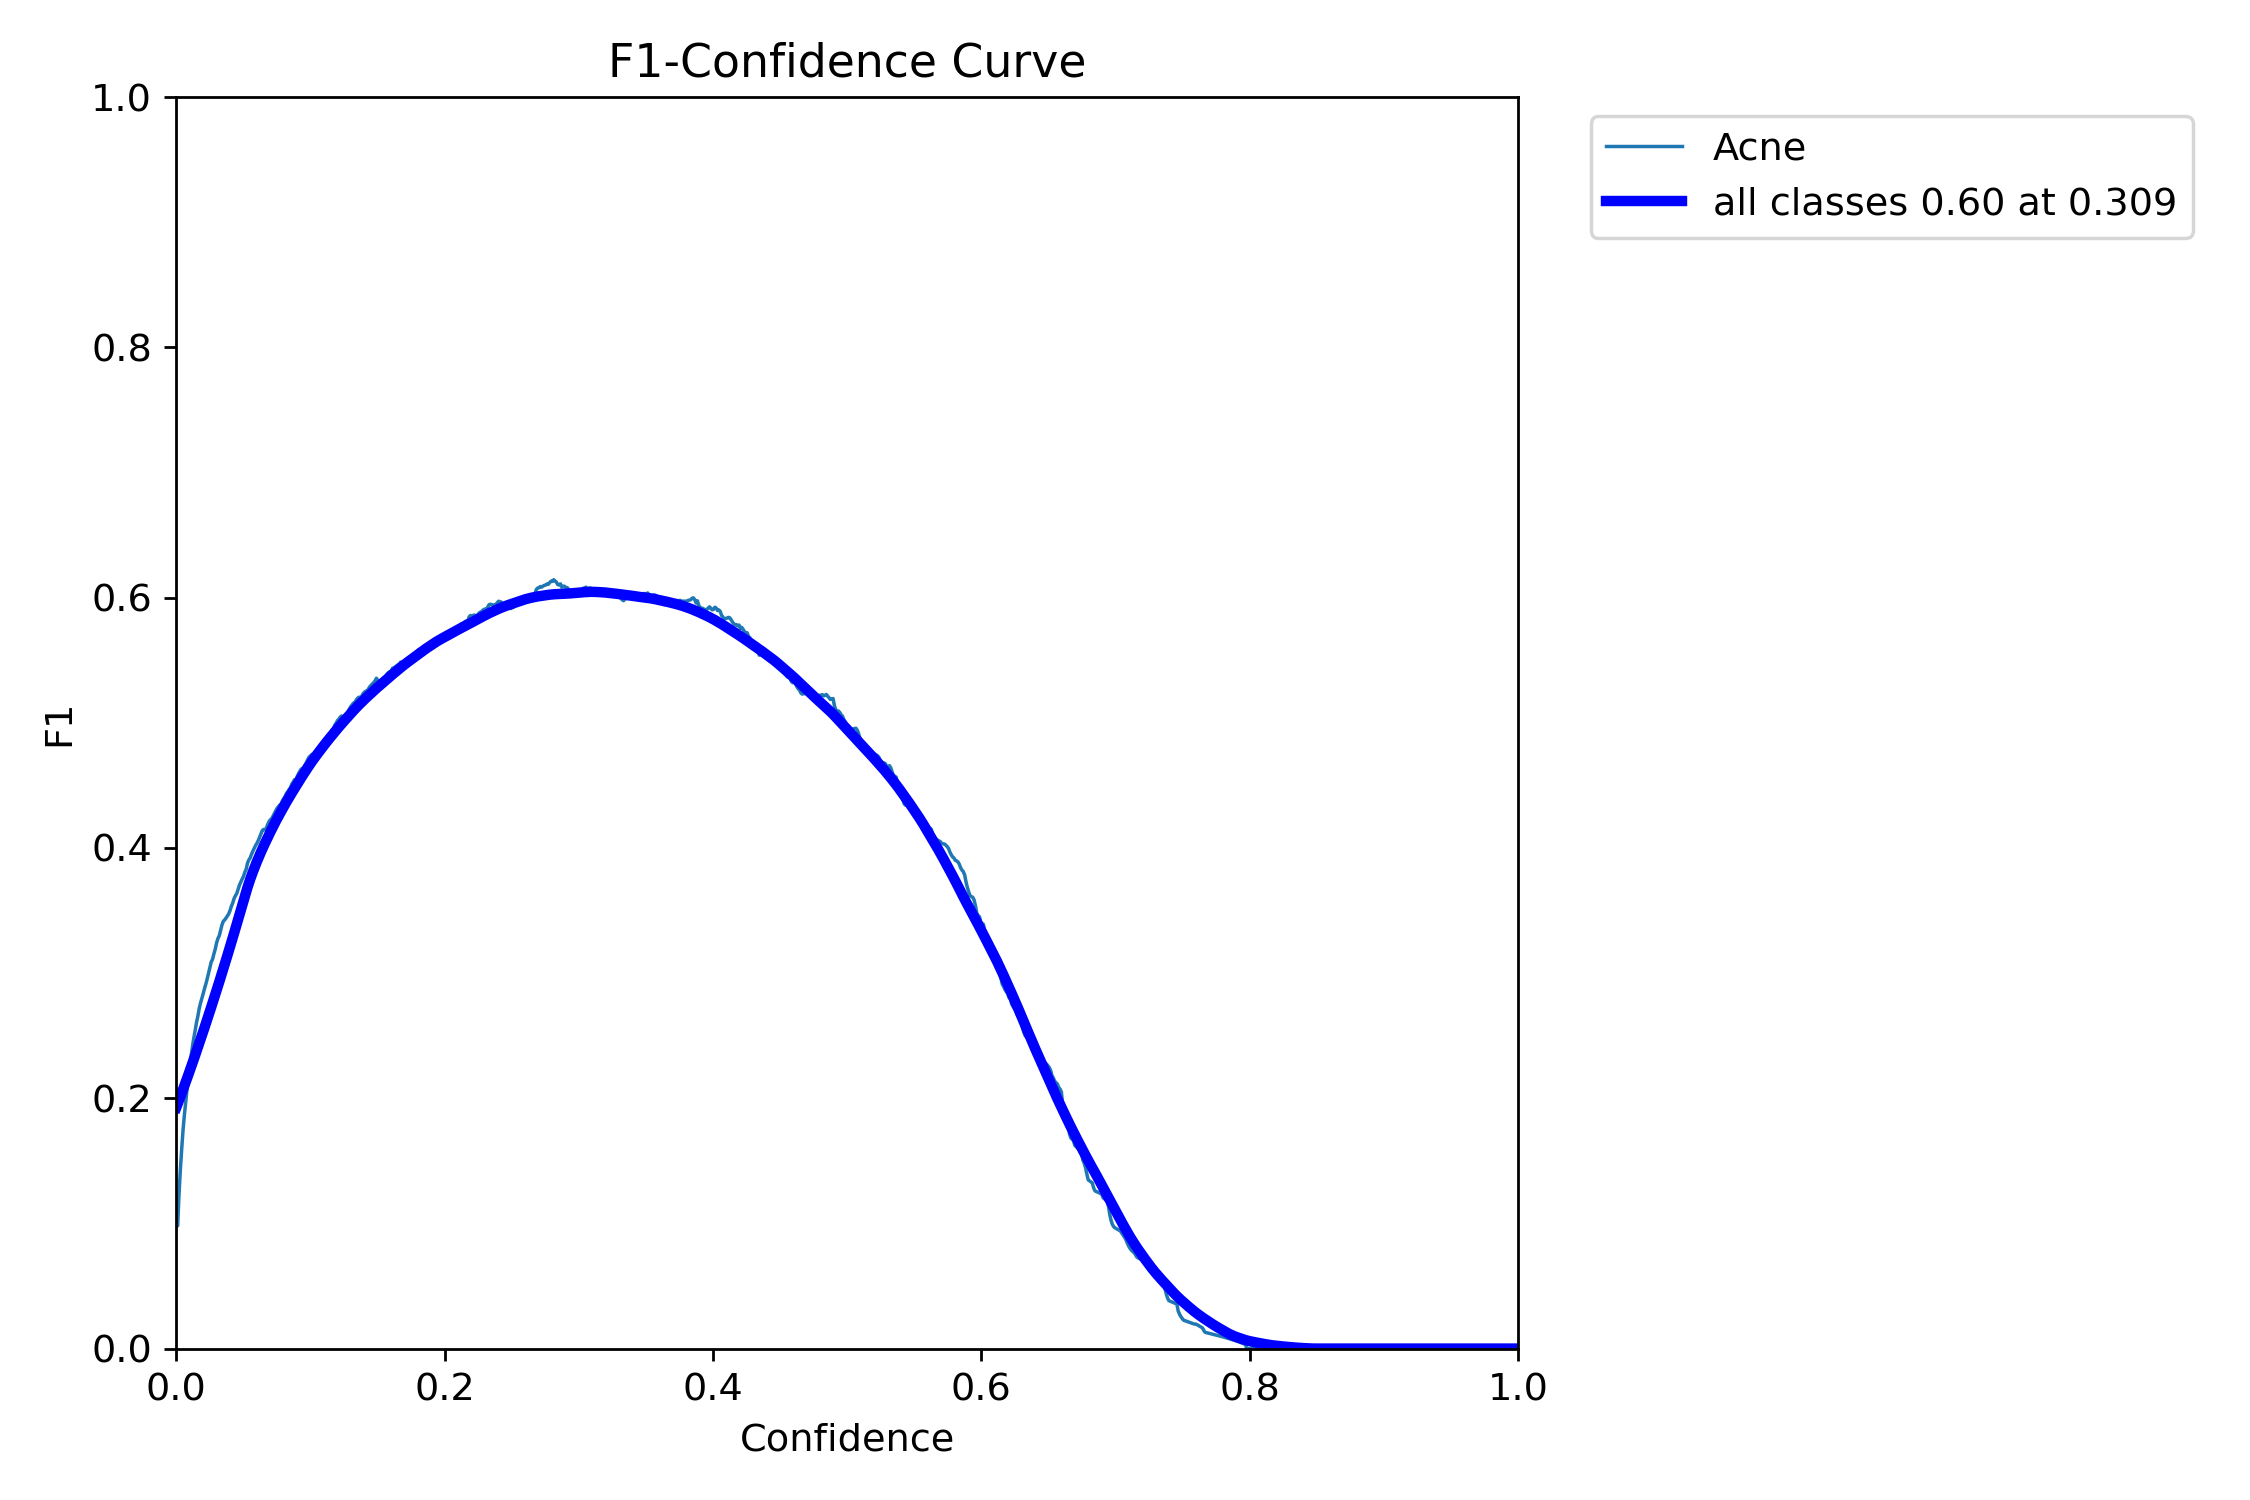
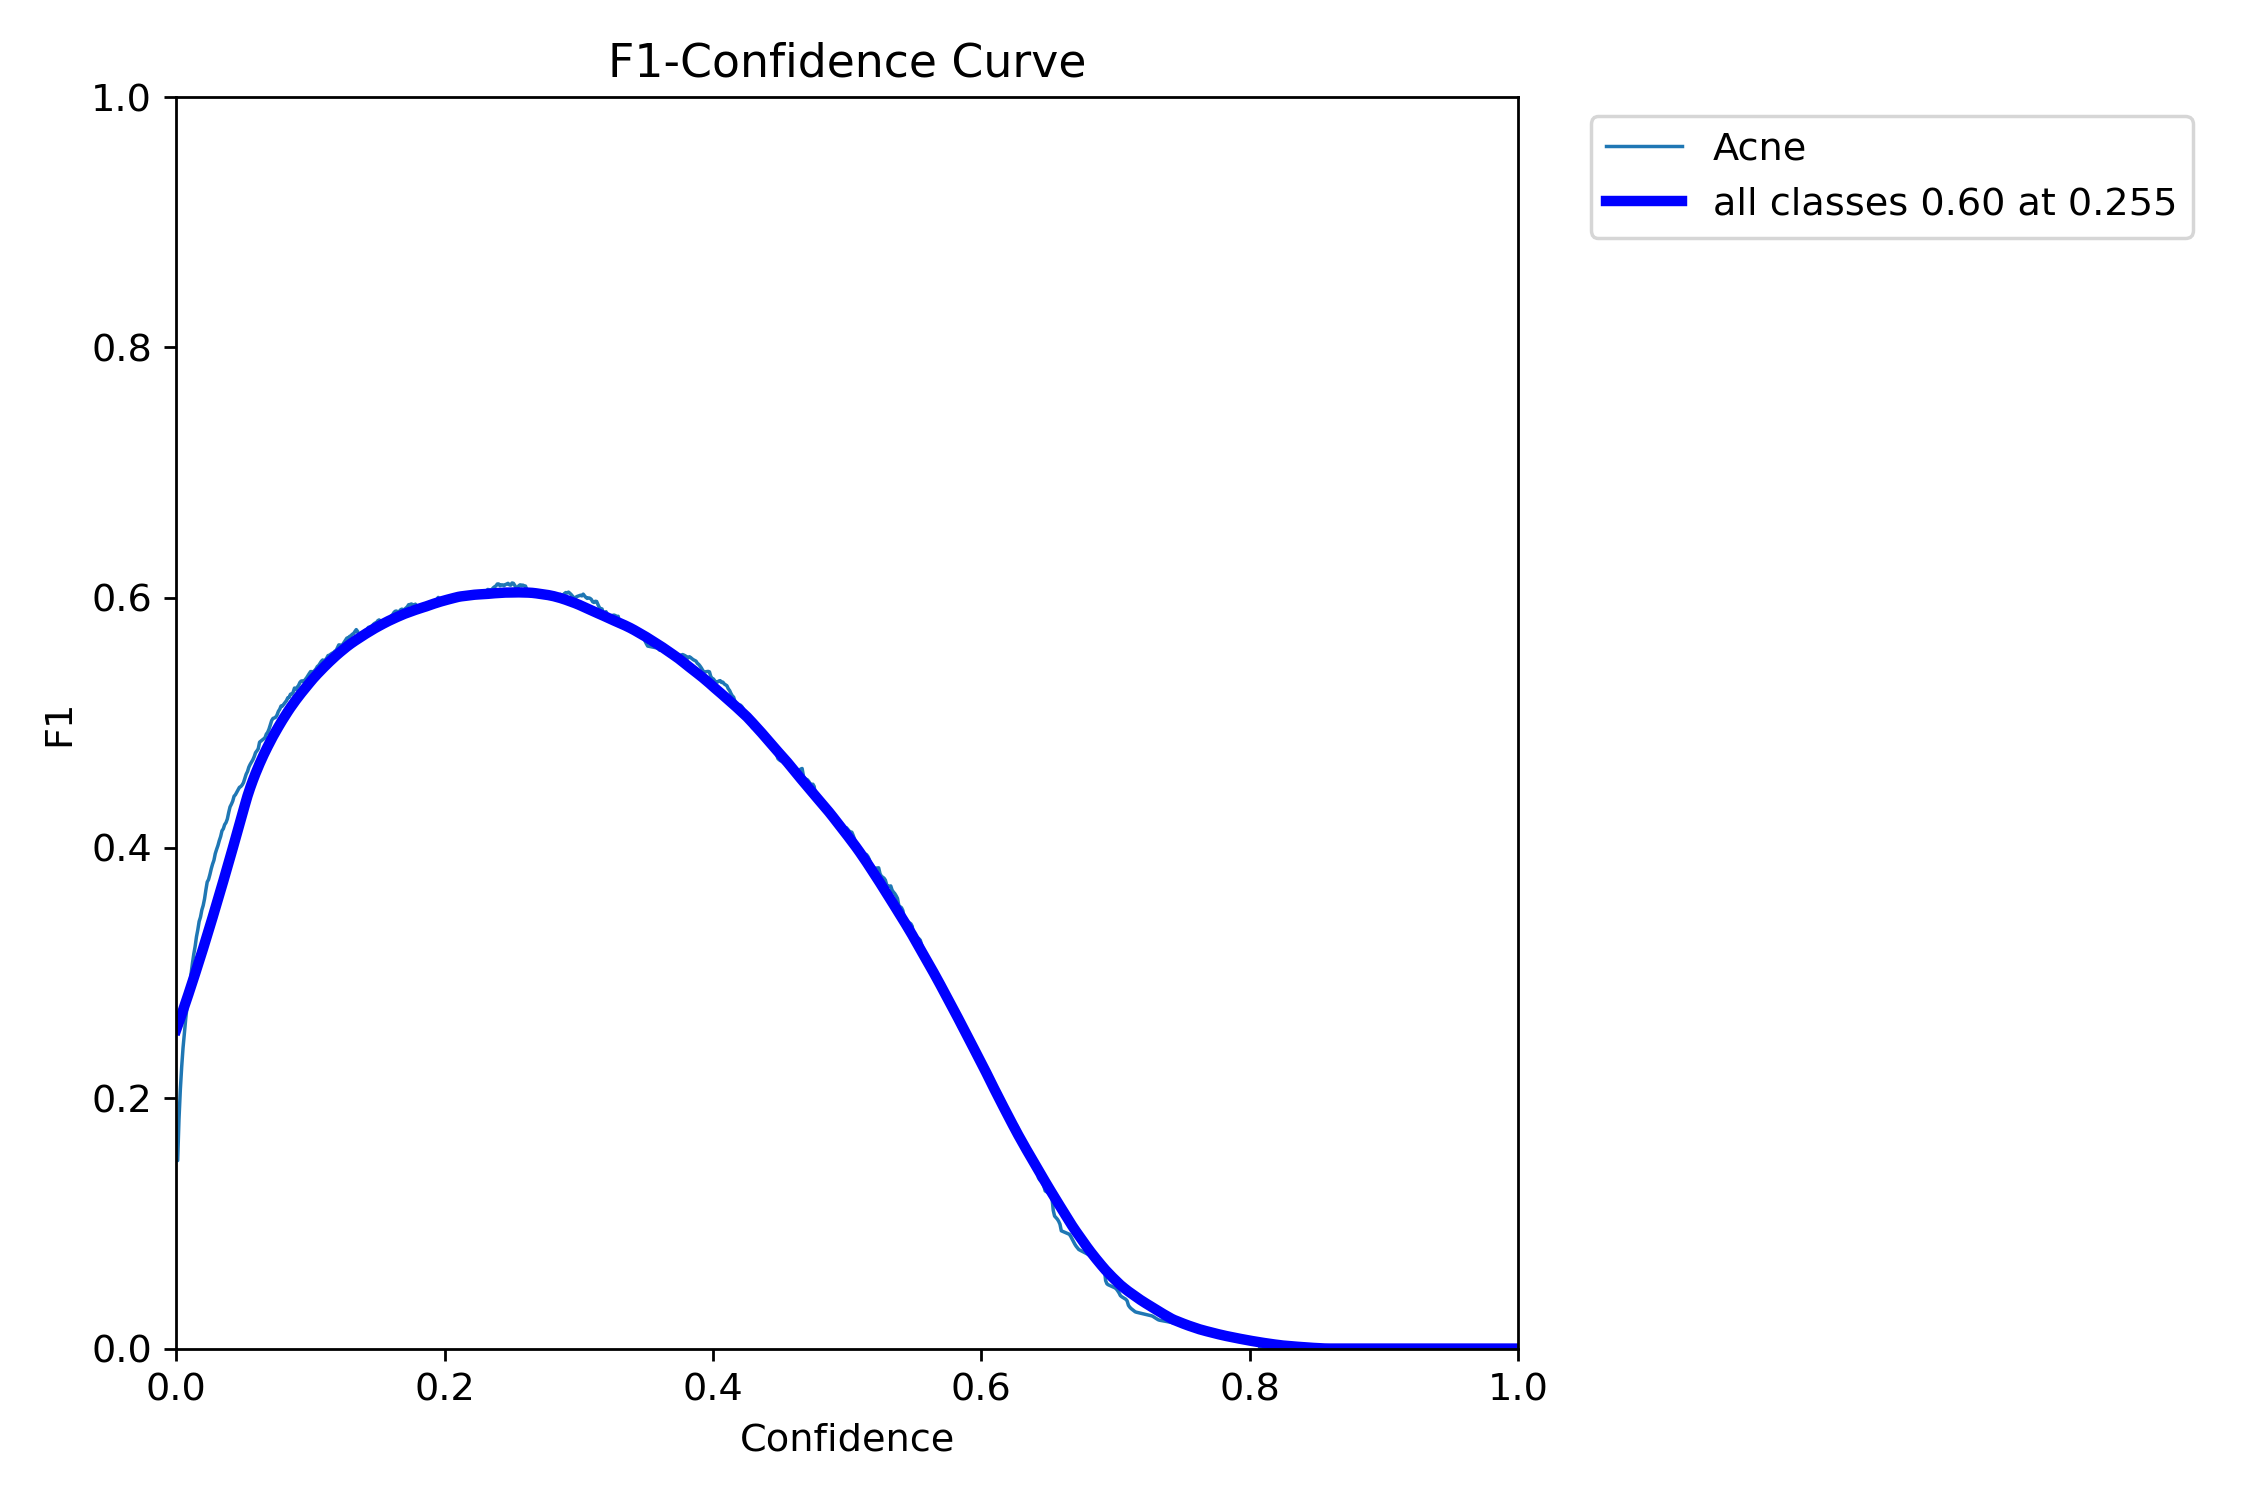
yolov8n optimized run

Changed region(s): [[0.0622, 0.368, 0.56, 0.8893], [0.9333, 0.1227, 0.9644, 0.1533]]

diff --git a/scripts/train.py b/scripts/train.py
@@ -2,26 +2,30 @@ from ultralytics import YOLO
 import argparse
 
 
-def train_model(model_name, batch_size, epochs, patience):
+def train_model(model_name, epochs, patience, dataset):
     model_weight = f"{model_name}.pt"
     # load yolo model
     model = YOLO(model_weight)
 
-    print("Starting fine-tuning for acne detection...")
-
     # start training
     results = model.train(
-        data="acne-dataset/data.yaml",  # Seu arquivo de configuração criado acima
+        data=f"{dataset}/data.yaml",
         epochs=epochs,
-        imgsz=640,  # default image size for yolo
-        batch=batch_size,  # if low memory use a smaller batch size
+        imgsz=1280,  # higher resolution to preserve small acne lesions
+        batch=2,  # small fixed batch to avoid system RAM OOM
         patience=patience,  # stop training if no evolution after 'patience' epochs
         device=0,  # use gpu 0. use 'cpu' if no gpu
         project="Acne_Detection",
         name=model_name,  # folder where the weights are going to be saved
+        cos_lr=True,  # cosine LR decay for smoother convergence
+        scale=0.9,  # aggressive scale augmentation for variable-resolution images
+        translate=0.2,  # slightly more spatial variation
+        mosaic=1.0,  # keeps mosaic (good for small objects)
+        erasing=0.4,  # random erasing for regularization
+        workers=2,  # keep low to manage RAM usage
     )
 
-    print("Training finished. Best weights are saved on Acne_Detection/{model_name}/weights/best.pt")
+    print(f"Training finished. Best weights saved at Acne_Detection/{model_name}/weights/best.pt")
 
 
 if __name__ == "__main__":
@@ -31,12 +35,6 @@ if __name__ == "__main__":
         type=str,
         default="yolo26s",
         help="Name of the YOLO model to train (default: yolo26s)",
-    )
-    parser.add_argument(
-        "--batch-size",
-        type=int,
-        default=8,
-        help="Batch size for training (default: 8)",
     )
     parser.add_argument(
         "--epochs",
@@ -50,5 +48,11 @@ if __name__ == "__main__":
         default=15,
         help="Patience for early stopping (default: 15)",
     )
+    parser.add_argument(
+        "--dataset",
+        type=str,
+        default="acne-dataset",
+        help="Dataset folder name (default: acne04-dataset)",
+    )
     args = parser.parse_args()
-    train_model(args.model_name, args.batch_size, args.epochs, args.patience)
+    train_model(args.model_name, args.epochs, args.patience, args.dataset)

diff --git a/README.md b/README.md
@@ -42,23 +42,23 @@ names: ['Acne']
 Run the training script
 
 ```
-python scripts/train.py --model-name yolo26s --batch-size 8 --epochs 100 --patience 15
+python scripts/train.py --model-name yolov8n --epochs 300 --patience 50 --dataset acne-dataset
 ```
 
 ## Evaluate
 
 ```bash
-python scripts/evaluate.py --model-name yolo26s
+python scripts/evaluate.py --model-name yolov8n
 ```
 
 Output:
 
 ```
-Loading the trained model for final evaluation of yolo26s...
+Loading the trained model for final evaluation of yolov8n...
 Evaluating on the TEST dataset...
 --- FINAL REAL-WORLD SCORES ---
-mAP50 (Detection accuracy): 0.6416
-mAP50-95 (Localization accuracy): 0.2873
+mAP50 (Detection accuracy): 0.6433
+mAP50-95 (Localization accuracy): 0.3007
 ```
 
 ```
@@ -70,13 +70,13 @@ mv ./runs/detect/val/BoxF1_curve.png ./
 Get the confidence on *F1_curve.png* to run the inference with
 
 ```
-python scripts/inference.py --model-name yolo26s --image-path "./test_images/" --confidence 0.309
+python scripts/inference.py --model-name yolov8n --image-path "./test_images/" --confidence 0.255
 ```
 
 ## Results
 
 | Model | mAP50 | mAP50-95 | File size .pt (MB) | 
 | :------------------- | :----- | :-------------- | :---------------------- |
-| yolov8n | **0.6433** | 0.2846 | 6.24 |
+| yolov8n | **0.6433** | **0.3007** | 6.24 |
 | yolo26n | 0.6110 | 0.2698 | **5.28** |
-| yolo26s | 0.6416 | **0.2873** | 19.4 |
+| yolo26s | 0.6416 | 0.2873 | 19.4 |